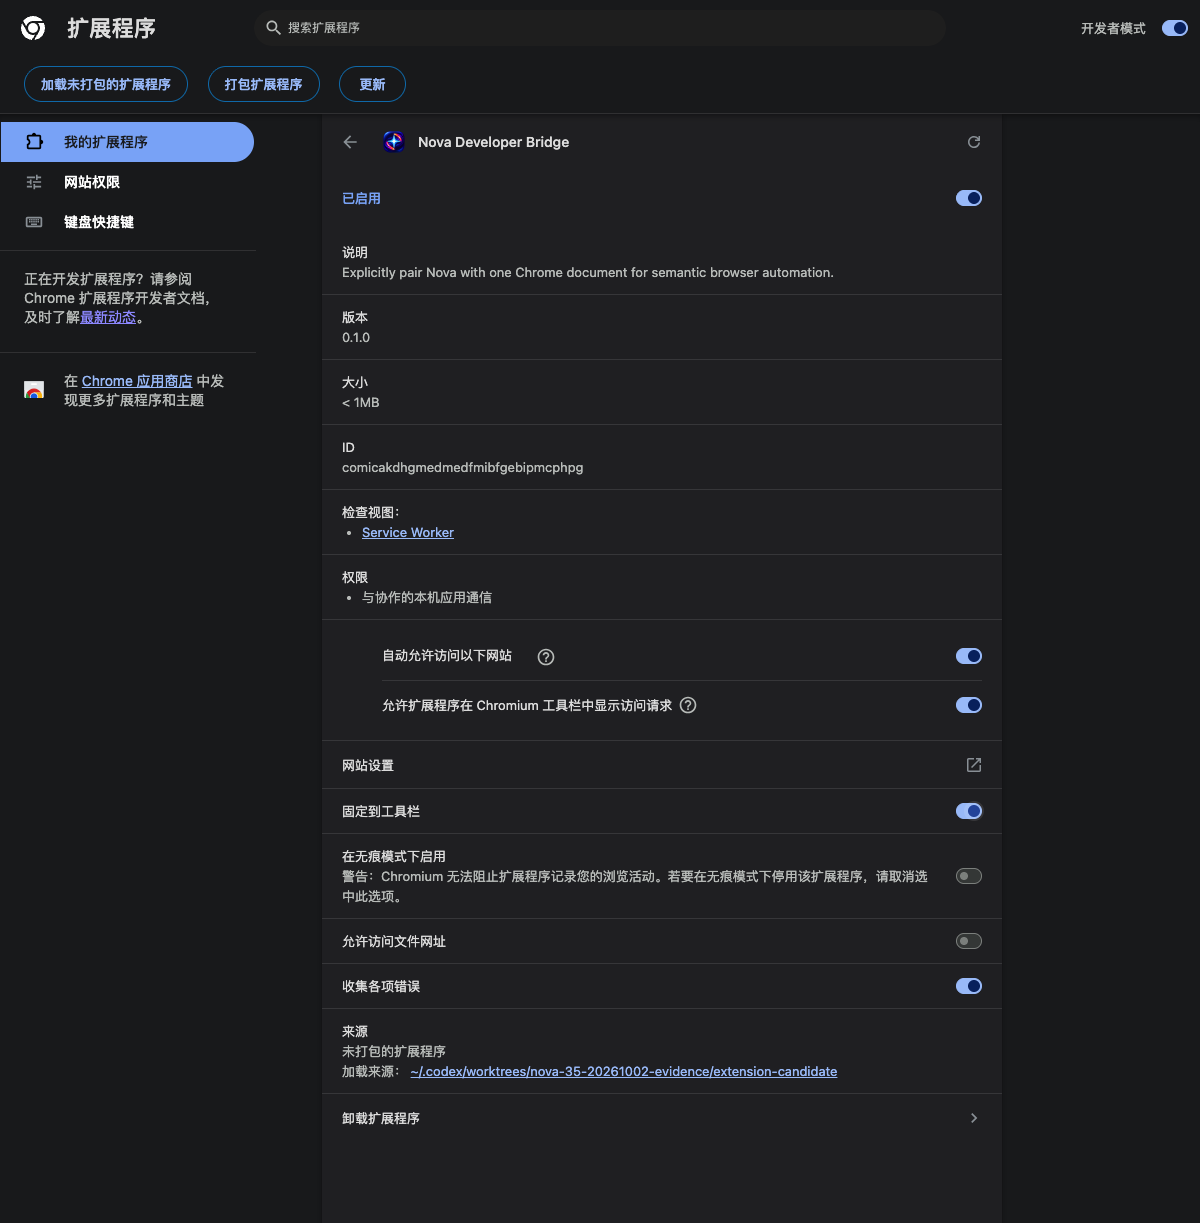
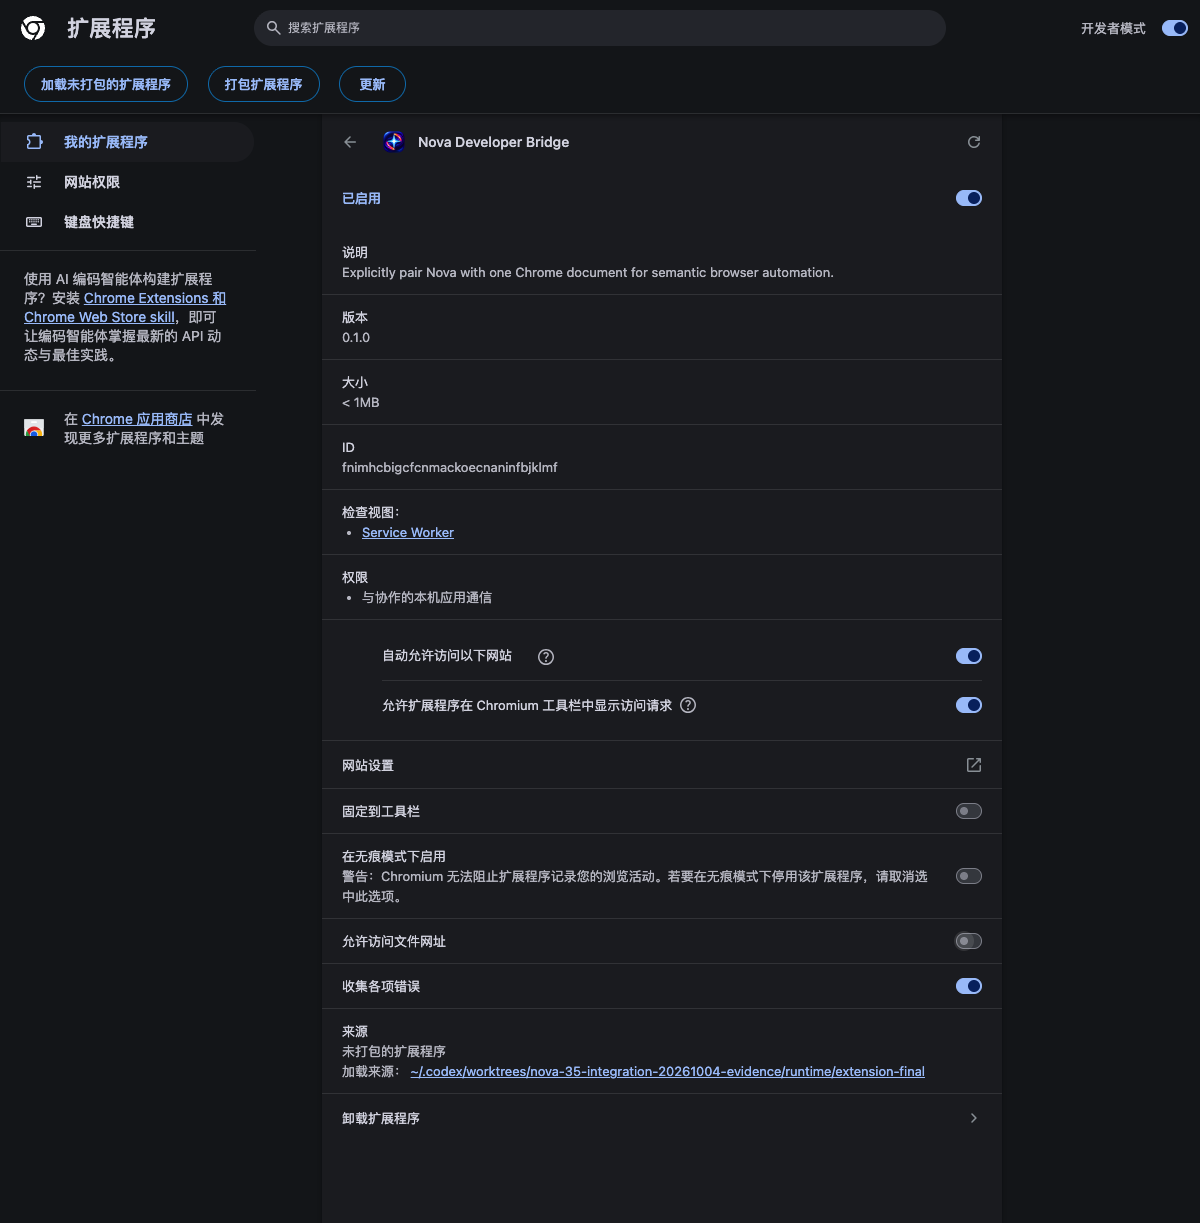
docs: record integrated popup lifecycle acceptance (#35)

diff --git a/chrome/docs/popup-acceptance.md b/chrome/docs/popup-acceptance.md
@@ -1,56 +1,78 @@
 # Popup lifecycle acceptance (#35)
 
-Validated on macOS 26.6.2 / Apple Silicon with official Chrome for Testing
-149.0.7827.54 and an isolated profile on 2026-10-02. The browser loaded an
-immutable copy of all 22 tracked extension files; their SHA256 values matched
-the candidate. The native host used the existing production Chrome bridge in
-an isolated test broker, not the user's running Nova application.
+Validated on 2026-10-04 with official Chrome for Testing 154.0.8037.92,
+macOS 26.6.2 and Apple Silicon. The isolated profile loaded an immutable copy
+of all 22 tracked extension files from source candidate
+`f2aa0fb4ebfb14e8338f30bea9dcfc8fc0f6320f`; their SHA256 values matched.
+Chrome's displayed extension ID matched the private native-host manifest.
+
+The private development Nova.app used the existing accepted core binaries.
+Its Rust and native-host sources were byte-identical to merged Nova
+`32bf4d90129e944f15e3a66b9e0ca1c72efe0da2` and build candidate
+`364467b39731e9d2cb076ea48f21207dacaee9dc`. Product operations used public MCP
+tools and genuine toolbar-popup clicks. No pairing response was synthesized.
 
 ## Actual action-popup flow
 
-The normal toolbar action opened the popup on the owned HTTP fixture. No
-pairing was pending. Clicking **Use this tab** registered that document, then
-the test broker requested Pair while the same popup remained open.
+The normal toolbar action opened Nova on the owned HTTP fixture. **Use this
+tab** enabled the exact document without pairing it. The popup stayed open
+before the public `chrome_pair` request.
 
-| Trigger | Observed in the actual popup | Production bridge result |
+| Trigger | Actual popup observation | Public MCP result |
 | --- | --- | --- |
-| New Pair request | Reviewed fixture origin/title, countdown, Pair and Deny controls appeared without reopening | Confirmation returned the exact document route |
-| Pair this page | Pending controls changed to PAIRED and Release pairing | Semantic read returned the heading, Unicode field value, button and link |
-| External release | Paired controls disappeared; “Pairing ended. Ask Nova for a new Pair request when ready.” | Release succeeded |
-| Wait 30 seconds | Pending controls disappeared; “Pair request expired…” recovery text appeared | `pair_expired` |
-| Stop only the owned test broker | “Nova.app unavailable” and reconnect guidance appeared without reopening | Native messaging disconnected |
-| Restart that broker | The same popup returned to connected / no live request | Status connected; a new explicit document registration and Pair succeeded |
-| Navigate the paired tab using the browser test driver | “The page changed…” appeared and the old paired controls disappeared | `document_unloaded`, no route, zero registered frames; old snapshot action rejected |
-| Allow this site | Chrome displayed its real optional-permission prompt for only `nova-consent.test` | Permission grant did not pair a document |
-| Revoke site access | Allowed-site controls disappeared and removal guidance appeared | Chrome permission removed |
+| New Pair request | Reviewed fixture origin/title, countdown, Pair and Deny appeared without reopening | Genuine confirmation bound that document |
+| Pair this page | Same popup changed to PAIRED and Release pairing | Canonical paired-page read returned 16 nodes, including Unicode content |
+| External release | Same popup hid paired controls and showed “Pairing ended…” | Release succeeded |
+| Actual 30-second expiry | Same popup hid pending controls and showed “Pair request expired…” | `pair_expired` |
+| Navigate the fixture | Chrome closed its action popup; reopening showed “The page changed…” and no old paired controls | `document_unloaded`, zero registered frames, old canonical token rejected |
+| Stop only the identified development Nova.app | Same popup showed “Nova.app unavailable…” and reconnect guidance | Native messaging disconnected |
+| Restart that app | Same popup recovered to connected with no live pairing | Status was connected, unpaired and route-free |
+| New explicit registration and confirmation after reconnect | Genuine Pair click showed the replacement document as PAIRED | New document/epoch and fresh canonical 16-node read succeeded |
 
-Native accessibility observations and action-popup screenshots were captured
-in the acceptance session for these transitions. The two committed images
-below show profile settings and the replacement fixture document, rather than
-the action-popup overlays. Chrome closes the popup when displaying its
-optional-permission prompt; it was reopened after granting that permission.
-During the test-driver navigation the popup remained open and updated.
+Native accessibility observations and popup PNGs were captured for these
+transitions. The screenshots below include actual popup overlays, separately
+from the profile and dark fixture images.
+
+![New request in the already-open popup](assets/popup-pending-open.png)
+
+![Actual timeout in the same popup](assets/popup-expired-open.png)
 
 ![Owned profile: Developer mode on, file/incognito access off](assets/popup-profile-boundary.png)
 
-![Replacement fixture document after navigation](assets/popup-navigation-fixture.png)
+![Owned dark fixture](assets/popup-navigation-fixture.png)
 
-The command-line unpacked-extension launch initially enabled Chrome's file
-access checkbox. It was explicitly turned off in this owned test profile;
-incognito stayed off. These settings do not assert a command-line installation
-default. Daily Nova and Bodhi processes retained their original PIDs/start
-times, and no macOS privacy permission was changed.
+Chrome's command-line extension load initially enabled file access. It was
+explicitly disabled in the owned profile; incognito stayed off. This records
+the acceptance setting, not an installation default. The test used temporary
+tab access; real optional site/frame permission prompts were not part of this
+current-candidate run.
+
+An initial timeout observation was interrupted by a separately opened browser
+tab and is not credited; the complete same-popup retry above passed. An early
+post-restart MCP client correctly failed before the private app socket was
+ready, and one later consent attempt expired before its click. Those attempts
+are retained separately from the successful ready-client and confirmation.
+
+All private Nova, native-host and MCP fixture processes were closed, and the
+two owned profile registrations were removed. The browser and rendered dark
+fixture were preserved because other tabs were in use. Daily Nova/Bodhi,
+macOS privacy permissions and the user's running Windows VM were unchanged.
 
 ## Automated async coverage
 
-`npm run check` and `npm test` passed locally on Node 26.10.0: 156 tests,
-zero failures or skips. The existing production worker/popup fixtures cover
-serialized loading/actions, current versus stale errors, delayed read/action
-replies, navigation/candidate invalidation, and late probe success/failure.
-Repeated bootstrap registration does not send another state notification;
-unchanged reads reuse the candidate without another bootstrap or polling.
+`npm run check` and `npm test` passed on Node 26.10.0: 380 tests, zero failures,
+skips or cancellations. The existing production worker/popup fixtures cover
+serialized actions/reads, current and stale errors, delayed responses,
+candidate reuse, navigation invalidation and direct permission gestures.
 
-The native screenshots and real bridge flow above are separate from the
-hermetic async tests. This is development-extension acceptance, not production
-distribution or completion of all parent #23 criteria. CI runs the same
-extension checks on the configured Node 22 runner.
+The independent review's two findings were repaired within this slice.
+Revocation now notifies the popup before best-effort document cleanup; delayed
+native events preserve their response ordering without restoring old popup
+state. Frame metadata removal uses accurate recovery text while preserving
+site access. Six focused regressions failed before repair and passed after it;
+the combined popup/worker suite passed 130 tests.
+
+Actual Chrome observations and hermetic async tests are separate evidence.
+This establishes the development extension's popup lifecycle on macOS, not
+production distribution, TCC grants, real Windows popup acceptance or every
+criterion of parent #23. CI uses its configured Node 22 extension lane.
